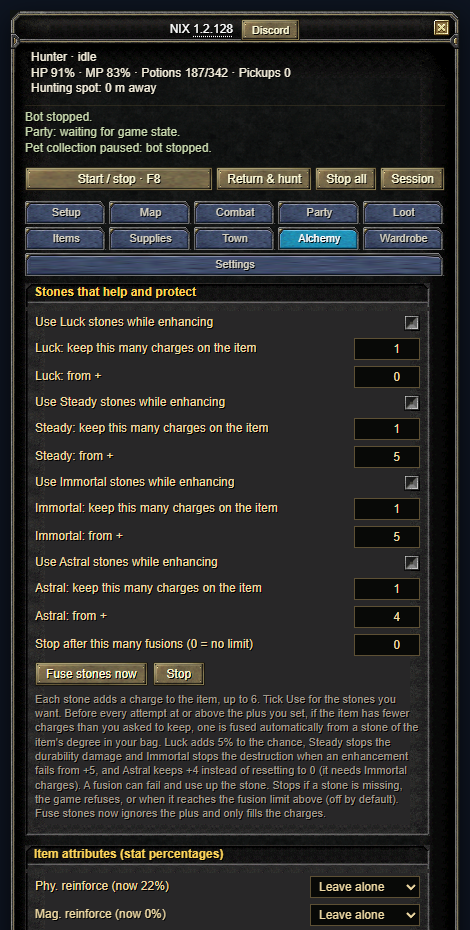
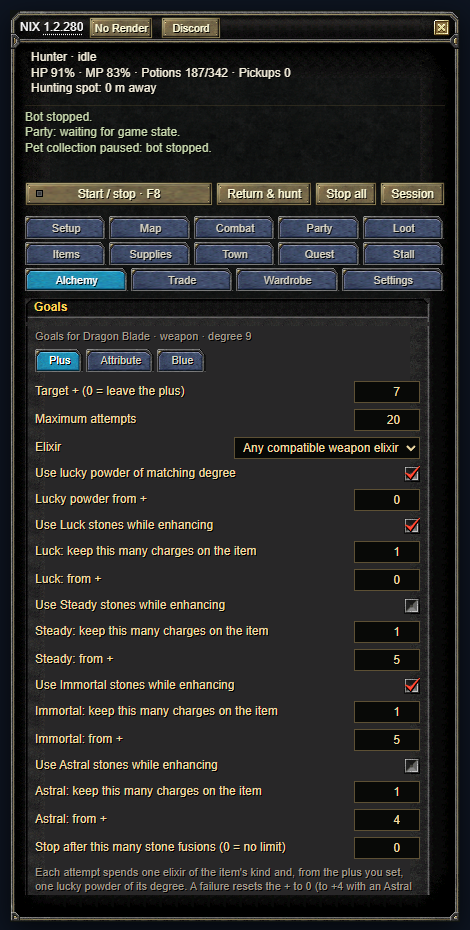
Guide: alchemy queue, goal tabs and blue stones (1.2.280)

diff --git a/guide.html b/guide.html
@@ -98,7 +98,7 @@
     <h3>What happens to the pet's loot in town</h3>
     <ul>
       <li><strong>Elixirs, magic stones and attribute stones</strong> go to the warehouse. Stones are also stored from your own bag. Tick <strong>Magic stones</strong> and <strong>Attribute stones</strong> in Loot to collect them.</li>
-      <li><strong>Star, Moon and Sun (SoX) gear</strong> goes to the warehouse too, from your bag and from the pet, unless it belongs to a saved buff set, is the weapon chosen for alchemy, or matches your <strong>Keep in pet</strong> names. You can also list character levels (for example <em>85</em> or <em>80-90</em>) under <strong>Also deposit gear requiring level</strong> to store that gear as well.</li>
+      <li><strong>Star, Moon and Sun (SoX) gear</strong> goes to the warehouse too, from your bag and from the pet, unless it belongs to a saved buff set, is in the alchemy queue, or matches your <strong>Keep in pet</strong> names. You can also list character levels (for example <em>85</em> or <em>80-90</em>) under <strong>Also deposit gear requiring level</strong> to store that gear as well.</li>
       <li><strong>Other pet loot is sold</strong> at the repair merchant. Potions, scrolls, supplies, seal or rare gear and anything matching <strong>Keep in pet (names)</strong> are protected; everything else the pet carries is sold, including lucky powders and attribute tablets. Put a name in Keep in pet to protect something, and untick categories in Loot that you do not want collected.</li>
     </ul>
     <p>Tick <strong>Equipment: only SoX</strong> in Loot to collect only Star, Moon and Sun equipment; other categories follow their own checkboxes. A SoX pickup shows a notice and plays a chime, and Settings → Session stats counts them.</p>
@@ -128,14 +128,19 @@
     <h3>Reconnect</h3>
     <p>Always on. After a server restart or a dropped connection the bot waits for the game, reconnects, and resumes hunting if it was hunting. It never types or stores your password; if the login is gone it tells you and waits for you to log in. Logging out yourself cancels it.</p>
     <h3>Item alchemy</h3>
-    <p>The <strong>Alchemy</strong> tab enhances one item from your bag with elixirs: a weapon, shield, armour piece or accessory, each with its own kind of elixir. Failed attempts can lower, damage or destroy the item, so set a sensible <strong>Target +</strong> and attempt limit and stop hunting first. Under the settings the tab shows the chance of the next attempt and how many elixirs you should expect to need, taken from the server's own data, and a <strong>Results</strong> panel keeps count and a log.</p>
-    <img class="shot" src="guide/09-alchemy.png" width="470" alt="The Alchemy tab: item choice, target plus, attempts, elixir choice, lucky powder from a plus, and the start and stop buttons.">
-    <p>Under <strong>Stones that help and protect</strong> tick <strong>Use Luck / Steady / Immortal / Astral stones while enhancing</strong> for the helpers you want, set how many charges to keep on the item (1 to 6) and the plus each is used <strong>from</strong>. Luck raises the enhancement success chance, Steady stops durability damage, Immortal stops destruction when an enhancement fails from +5, and Astral keeps +4 instead of resetting to 0. The stones must be of the item's degree and in your bag; when the item has fewer charges than you asked to keep, one is fused automatically before every attempt at or above its plus. <strong>Fuse stones now</strong> ignores the plus and only fills the charges.</p>
-    <img class="shot" src="guide/09b-alchemy-stones.png" width="470" alt="The Alchemy tab, Stones that help and protect: Luck, Steady, Immortal and Astral counts, the plus each is used from, and the Fuse stones now button.">
+    <p>The <strong>Alchemy</strong> tab works through a <strong>queue</strong>. Pick an item from your bag (a weapon, shield, armour piece or accessory) and press <strong>Add</strong>; add as many as you like and reorder them with <strong>Up</strong> and <strong>Down</strong>. Press <strong>Start queue</strong> and the bot does each item in three steps, <strong>Plus</strong>, then <strong>White</strong> (attribute stones), then <strong>Blue</strong> (magic stones), before it starts the next item. Blues come last because a white stone that works can roll a blue again. A step without a goal is passed over. Each line shows the item, its plus now and its goal, the three steps (green when there is nothing left to do) and where it stands. Stop hunting and travel first; <strong>Stop</strong> prevents the next attempt, but one already sent may still finish.</p>
+    <img class="shot" loading="lazy" decoding="async" src="guide/09-alchemy.png" width="470" alt="The Alchemy tab: the queue with two items, their plus goals and steps, the Up, Down, Remove, Start queue and Stop buttons, and the queue settings.">
+    <p>When an item runs out of materials the queue goes on with the next one; untick <strong>Out of materials: go to the next item</strong> to stop the whole queue instead. You can also set the <strong>delay between attempts</strong> and play a sound when the queue is done. Queued items stay in your bag on town trips.</p>
+    <p>Click a line to edit that item's <strong>Goals</strong>; every item keeps its own. The <strong>Plus</strong> tab sets the <strong>Target +</strong> (0 leaves the plus alone), the attempt limit, the elixir and lucky powder, and the helper stones: tick <strong>Use Luck / Steady / Immortal / Astral stones while enhancing</strong>, set how many charges to keep on the item (1 to 6) and the plus each is used <strong>from</strong>. Luck raises the success chance, Steady stops durability damage, Immortal stops destruction when an enhancement fails from +5, and Astral keeps +4 instead of resetting to 0. Failed attempts can lower, damage or destroy the item, so set a sensible target. The tab shows the chance of the next attempt and how many elixirs to expect, from the server's own data.</p>
+    <img class="shot" loading="lazy" decoding="async" src="guide/09b-alchemy-stones.png" width="470" alt="The Plus goals of the selected item: target plus, attempts, elixir, lucky powder and the Luck, Steady, Immortal and Astral stones.">
 
-    <h3>Item attributes</h3>
-    <p>Under <strong>Item attributes (stat percentages)</strong> pick, for the item selected at the top, the lowest percentage you want for each stat. Press <strong>Fuse attribute stones</strong> and the bot fuses attribute stones of the item's degree until every picked stat reaches its target. A successful fusion rolls the stat again, so it can come out lower, and it can re-roll another stat of the item, so the bot keeps checking all of them. The chance is 50% per stone before bonuses and the 80% and 100% steps are rare, so keep the stone limit (100 by default) sensible. It stops if a stone of the right kind is missing from the bag.</p>
-    <img class="shot" src="guide/09c-alchemy-attributes.png" width="470" alt="The Alchemy tab, Item attributes: each stat of the item with its current percentage and a target, the stone limit and the Fuse attribute stones button.">
+    <h3>Item attributes and blues</h3>
+    <p>The <strong>Attribute</strong> tab lists the white stats of the selected item with their current percentage. Pick the lowest percentage you want for each; stones of the item's degree are fused until every picked stat reaches it, and a stat without stones is passed over. A stone that works rolls the stat again, so it can come out lower, and it can roll another stat or a blue too. The chance is 50% per stone before bonuses and the 80% and 100% steps are rare, so keep the stone limit (100 by default) sensible.</p>
+    <img class="shot" loading="lazy" decoding="async" src="guide/09c-alchemy-attributes.png" width="470" alt="The Attribute goals: each white stat of the item with its current percentage and a target, and the stone limit.">
+    <p>The <strong>Blue</strong> tab lists only the blues the item can take (HP and MP, for example, only fit helms, chest pieces and pants), each with its value now and the stones of its degree in your bag. Choose <strong>Add it (any value)</strong>, a value <strong>or more</strong>, or <strong>Max</strong>. A blue already on the item is rolled again on success and can come out lower, so high goals can take many stones. A new blue needs a free magic slot, and the Luck, Steady, Immortal and Astral charges use the same slots; the tab shows how many are free, and a blue that does not fit is passed over. <strong>In bag</strong> counts the elixirs, powder and stones for the item's degree.</p>
+    <img class="shot" loading="lazy" decoding="async" src="guide/09d-alchemy-blue.png" width="470" alt="The Blue goals: the free magic slots, each blue the item can take with its value now, the stones in the bag and a goal, then the In bag counts.">
+    <p>The Classic window shows the same tab under <strong>Auto alchemy</strong>.</p>
+    <img class="shot" loading="lazy" decoding="async" src="guide/16-classic-alchemy.png" width="640" alt="The Auto alchemy tab in the Classic window: the queue and the Plus goals.">
 
     <h2 id="problems">6. If something goes wrong</h2>
     <p>The status line at the top of the panel says what the bot is waiting for. The common messages:</p>
